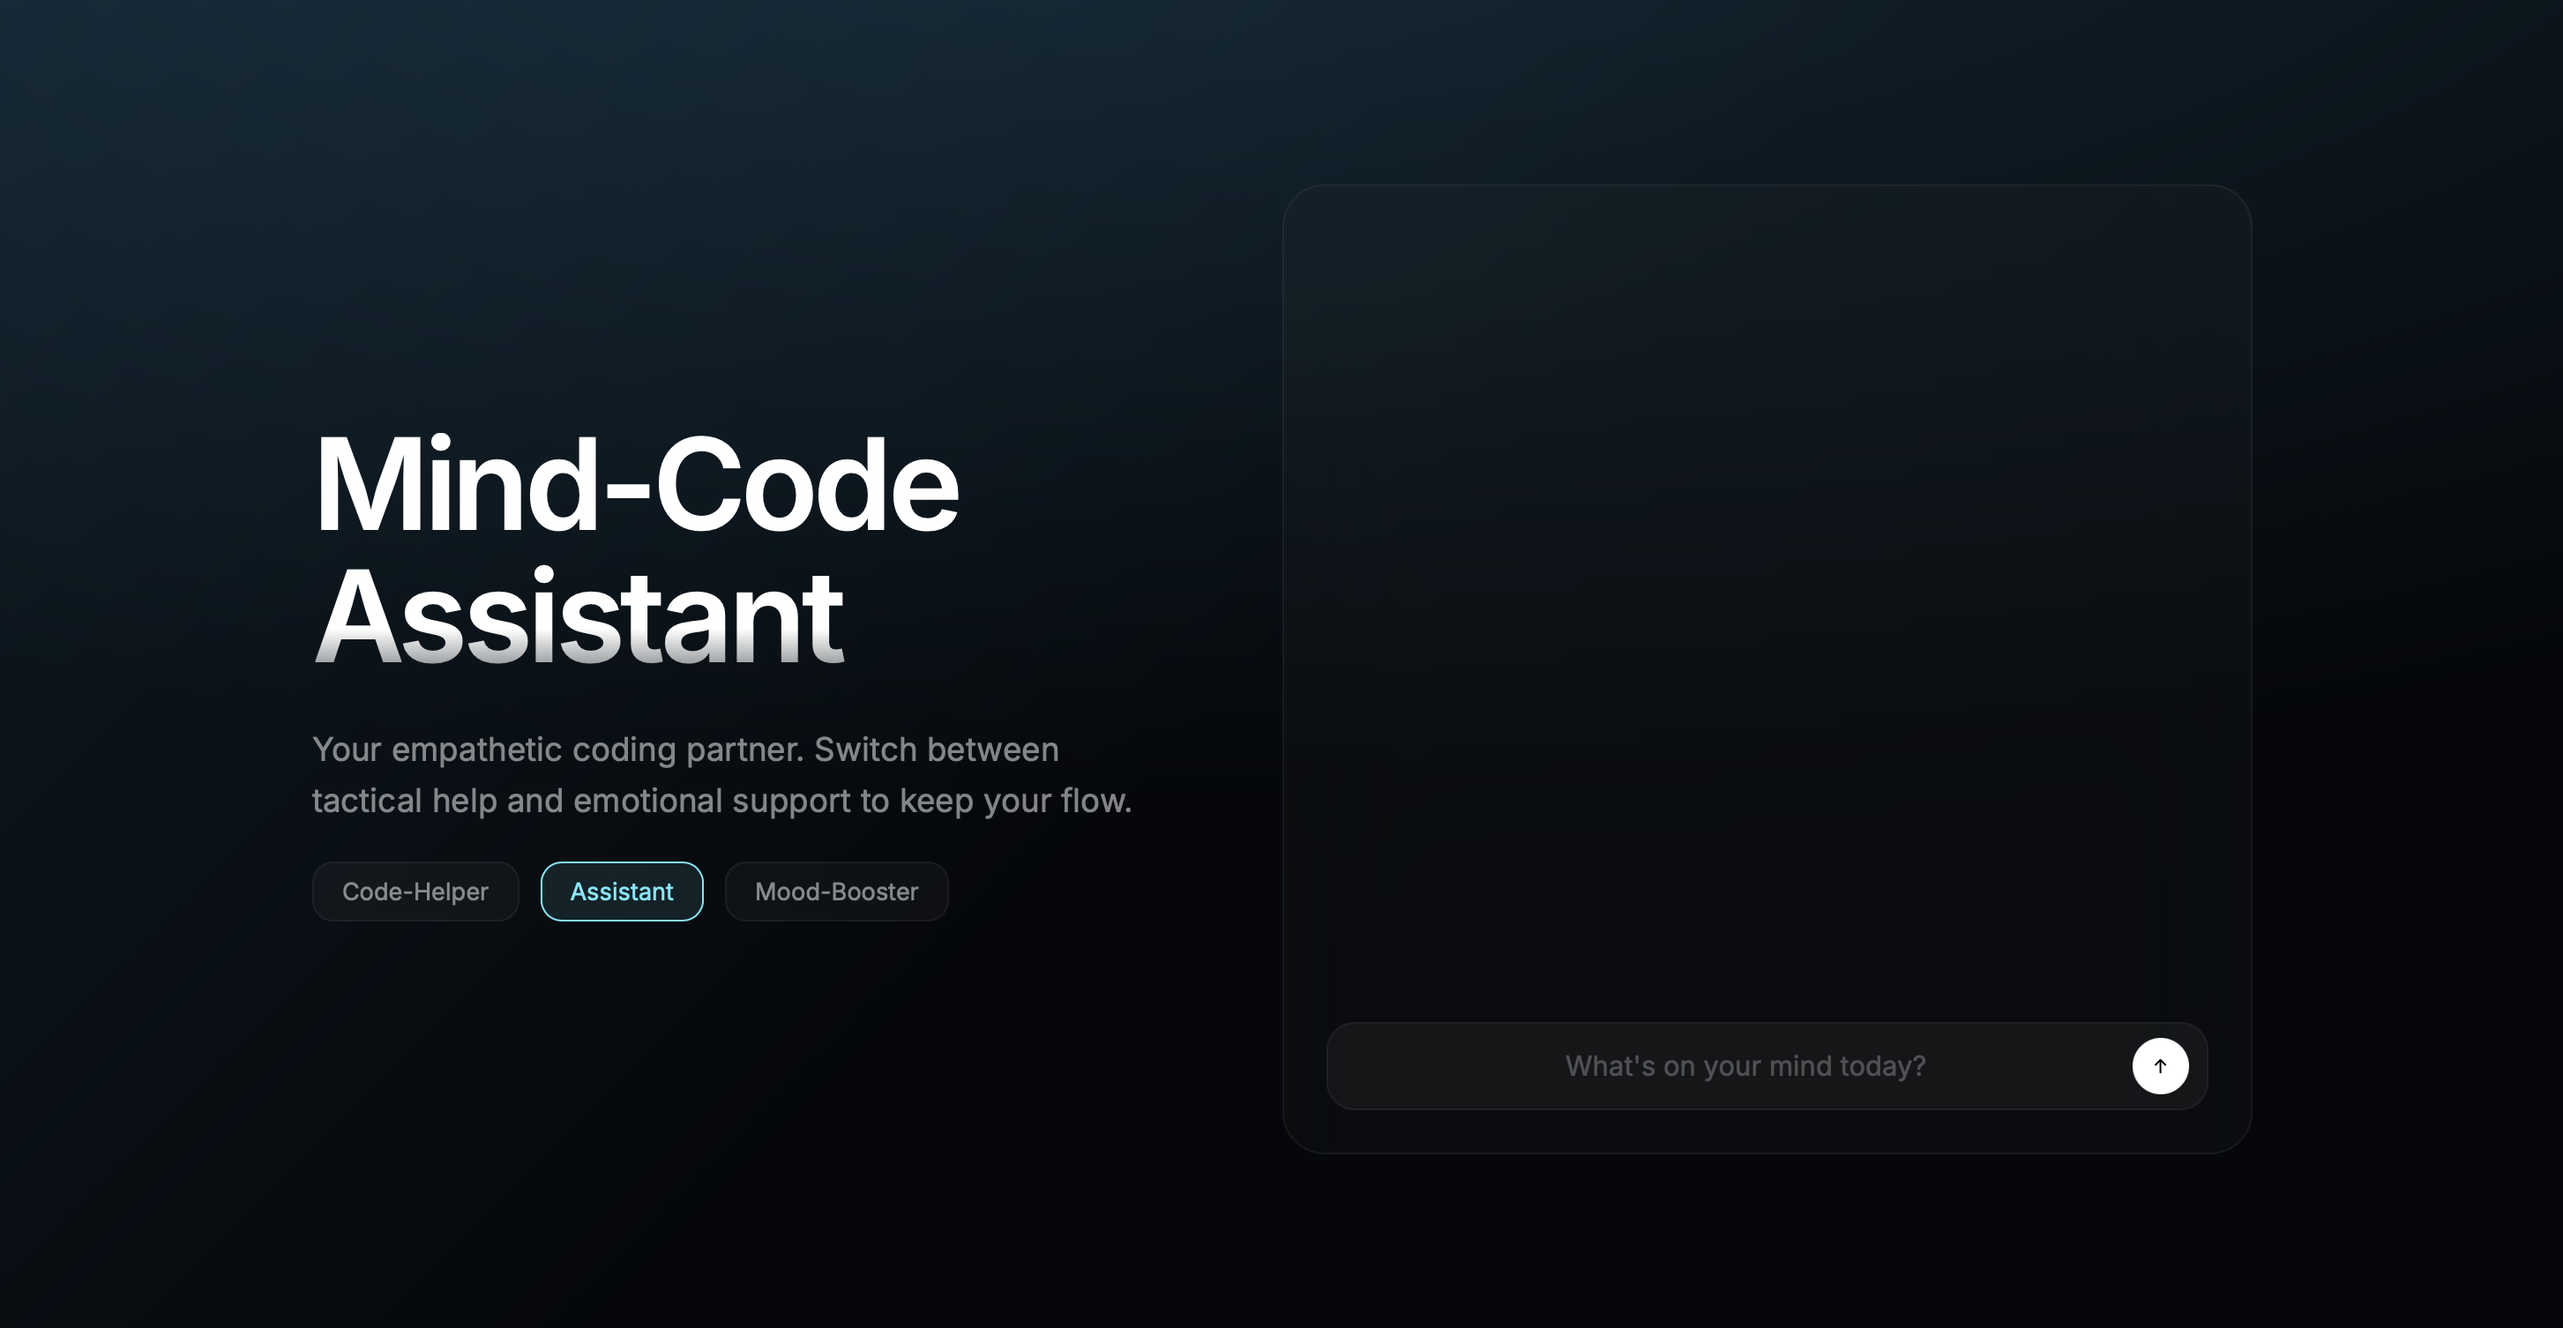
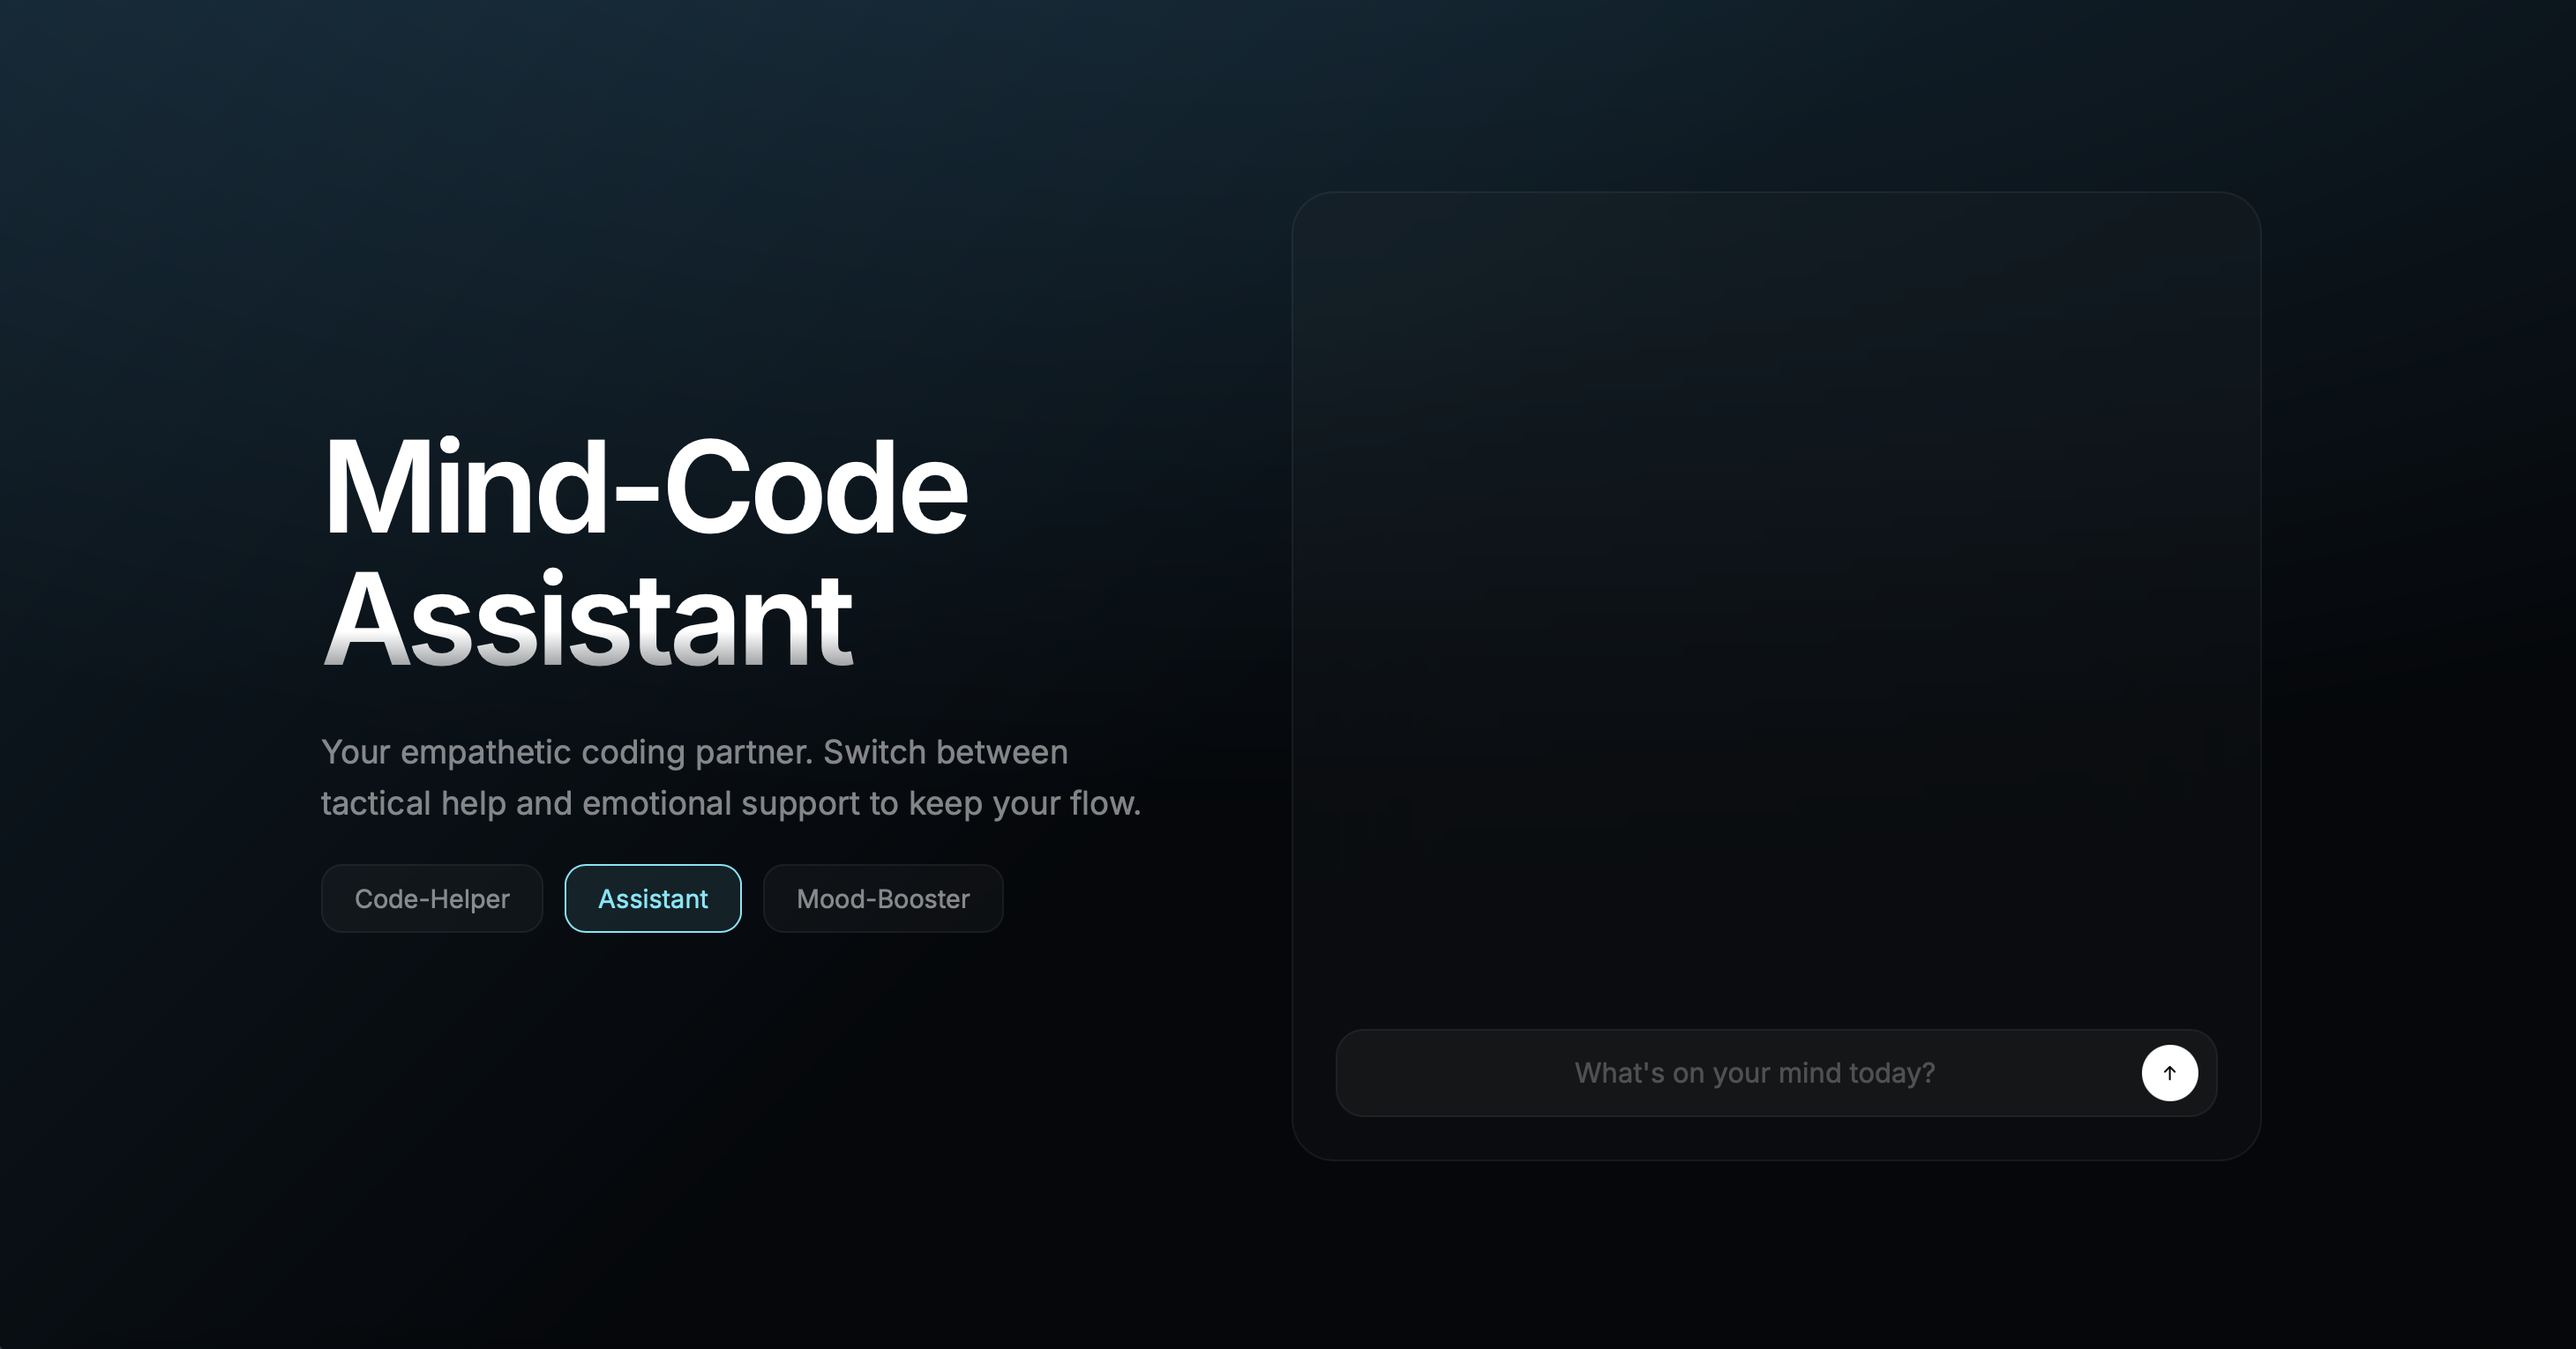
feat: implement ai-bot thinking response
- Add visual thinking indicator for ai-bot response
- Disable send message-button while answer is being processed

diff --git a/src/main/resources/templates/chat.html b/src/main/resources/templates/chat.html
@@ -40,7 +40,7 @@
 
             <input type="text" id="userInput" aria-label="Chat message"
                    placeholder="What's on your mind today?">
-            <button type="button" class="send-btn" aria-label="Send message"
+            <button type="button" id="sendButton" class="send-btn" aria-label="Send message"
                     onclick="sendMessage()">↑</button>
         </div>
     </main>
@@ -74,12 +74,18 @@
 
    async function sendMessage() {
        const input = document.getElementById('userInput');
+       const sendBtn = document.getElementById('sendButton');
        const messageText = input.value.trim();
 
        if (!messageText) return;
 
        appendMessage(messageText, 'user');
        input.value = '';
+
+       input.disable = true;
+       if (sendBtn) sendBtn.disable = true;
+
+       showThinkingIndicator();
 
        try {
            const response = await fetch('/api/v1/chat', {
@@ -91,6 +97,8 @@
                    sessionId: sessionId
                })
            });
+
+           removeThinkingIndicator();
 
           if (!response.ok) {
             const raw = await response.text();
@@ -109,8 +117,36 @@
           appendMessage(data.response ?? "(empty response)", 'ai');
 
        } catch (error) {
+           removeThinkingIndicator();
            console.error("Error details:", error);
            appendMessage(error.message, 'error');
+       } finally {
+           input.disable = false;
+           if (sendBtn) sendBtn.disable = false;
+           input.focus();
+       }
+   }
+
+   function showThinkingIndicator() {
+       const messages = document.getElementById('messages');
+       const thinkingDiv = document.createElement('div');
+
+       thinkingDiv.id = 'thinkingIndicator';
+       thinkingDiv.className = 'message ai thinking';
+
+       thinkingDiv.innerHTML = `
+       <span class="thinking-text">Mind-Code is thinking</span>
+      <span class="dots"><span>.</span><span>.</span><span>.</span></span>
+       `;
+
+       messages.appendChild(thinkingDiv);
+       messages.scrollTo({ top: messages.scrollHeight, behavior: 'smooth'});
+   }
+
+   function removeThinkingIndicator() {
+       const indicator = document.getElementById('thinkingIndicator');
+       if (indicator) {
+           indicator.remove();
        }
    }
 
@@ -146,6 +182,11 @@
 
    document.getElementById('userInput').addEventListener('keydown', function (e) {
        if (e.key === 'Enter'){
+           if (this.disable) {
+               e.preventDefault();
+               return;
+           }
+
            e.preventDefault();
            sendMessage();
        }

diff --git a/src/main/resources/static/css/style.css b/src/main/resources/static/css/style.css
@@ -67,11 +67,11 @@ body {
     background: rgba(255, 255, 255, 0.03);
     border: 1px solid var(--glass-border);
     color: var(--text-gray);
-    padding: 8px 16px;
+    padding: 10px 18px;
     border-radius: 12px;
     cursor: pointer;
     font-family: inherit;
-    font-size: 0.85rem;
+    font-size: 0.90rem;
     transition: all 0.2s ease;
 }
 
@@ -210,6 +210,41 @@ body {
     padding-left: 25px;
     display: flex;
     flex-direction: column;
+}
+
+.message.ai.thinking {
+    display: inline-flex;
+    align-items: center;
+    gap: 4px;
+    font-style: italic;
+    opacity: 0.8;
+}
+
+.dots span {
+    animation: blink 1.4s infinite both;
+    font-weight: bold;
+    display:inline-block;
+}
+
+
+.dots span:nth-child(2) {
+    animation-delay: .2s;
+}
+
+.dots span:nth-child(3) {
+    animation-delay: .4s;
+}
+
+@keyframes blink {
+    0% {opacity: .2;}
+    20% {opacity: 1;}
+    100% {opacity: .2;}
+}
+
+#userInput:disabled {
+    background: rgba(255, 255, 255, 0.05);
+    cursor: not-allowed;
+    opacity: 0.6;
 }
 
 
